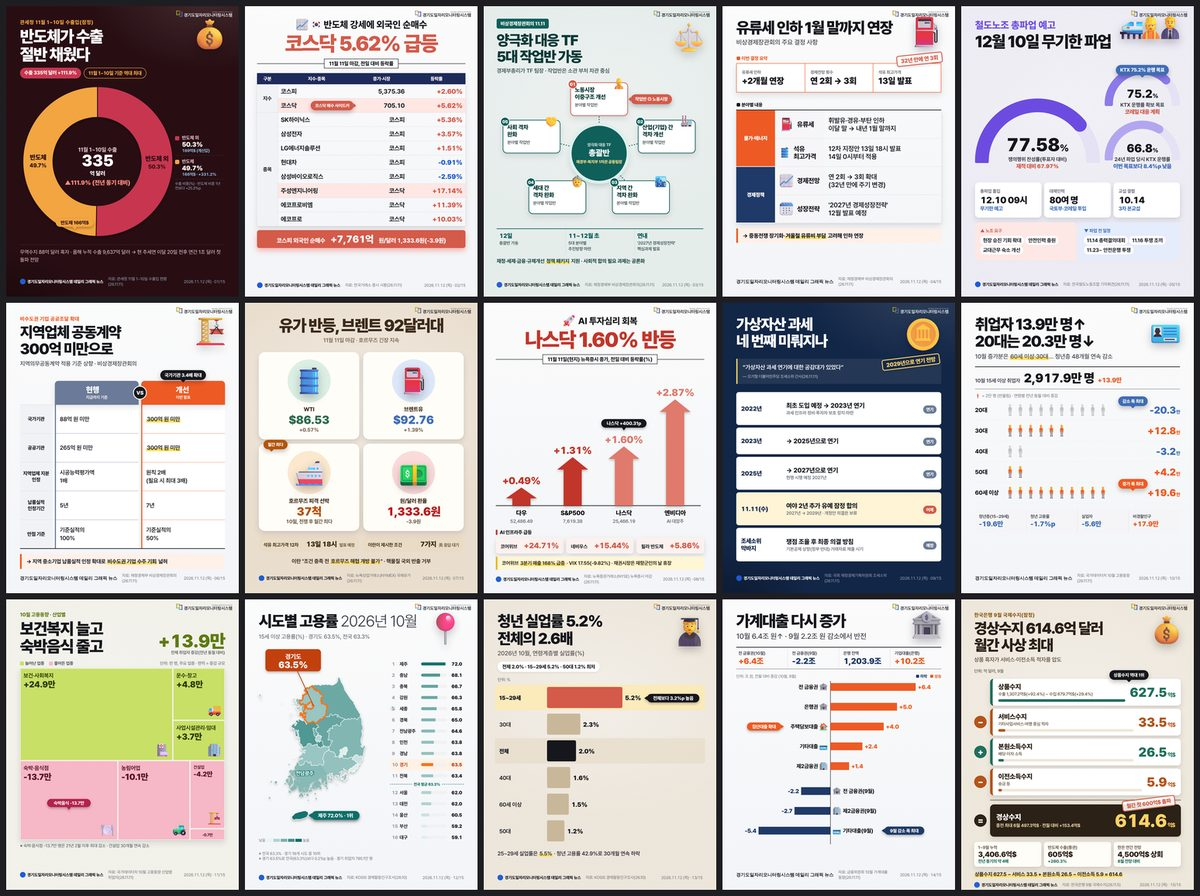
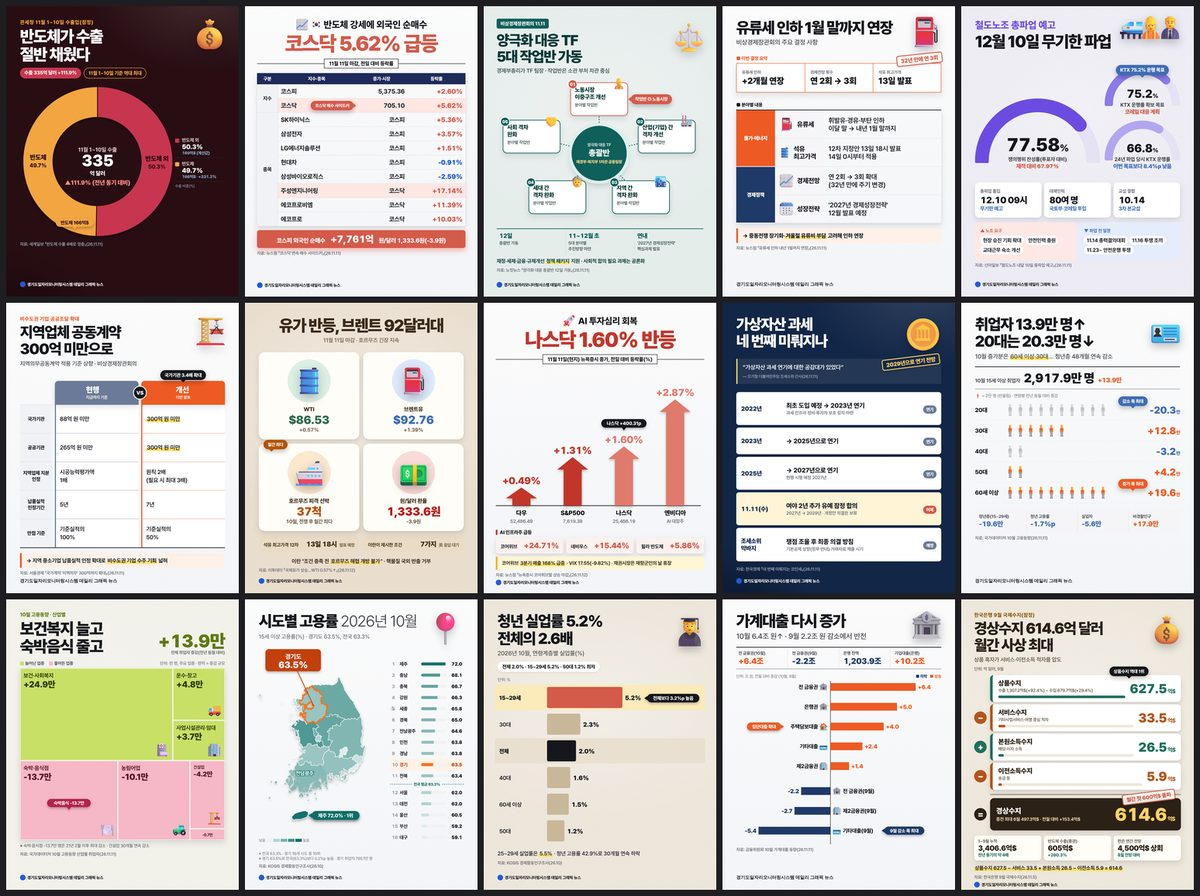
261112 웹페이지 수정(뉴스 출처 표기·미리보기 갱신)
Claude-Session: https://claude.ai/code/session_015uJhCQ7cEk3TV84yFqUjX6

diff --git a/daily/2026-11-12/index.html b/daily/2026-11-12/index.html
@@ -2,15 +2,15 @@
 <meta property="og:title" content="11.12.(목) 데일리 그래픽뉴스 | 경기도일자리모니터링시스템"><meta property="og:description" content="오늘의 일자리·경제 뉴스·통계 15건, 제목과 출처를 확인하세요"><meta property="og:image" content="https://gjfdata.github.io/daily/2026-11-12/preview.jpg"><meta property="og:url" content="https://gjfdata.github.io/daily/2026-11-12/"><meta property="og:type" content="website"><meta name="description" content="오늘의 일자리·경제 뉴스·통계 15건, 제목과 출처를 확인하세요">
 <link rel="stylesheet" href="https://cdn.jsdelivr.net/gh/orioncactus/pretendard@v1.3.9/dist/web/static/pretendard.css"><link rel="stylesheet" href="../../assets/style.css"></head><body><div class="w"><img class="ci" src="../../assets/ci.png" alt="경기도일자리모니터링시스템"><h1>11.12.(목) 데일리 그래픽뉴스</h1><p class="sub">오늘의 일자리·경제 뉴스·통계 15건</p>
 <img class="pv" src="preview.jpg" alt="11.12 데일리 그래픽뉴스 미리보기"><ol>
-<li><span class="n">01</span><div><b>반도체가 수출 절반 채웠다(11월 1~10일 수출 335억 달러)</b><span class="s"><a href="https://www.segye.com/newsView/20261111504526" target="_blank" rel="noopener">관세청 11월 1~10일 수출입 현황(26.11.11)</a></span></div></li>
-<li><span class="n">02</span><div><b>코스닥 5.62% 급등, 매수 사이드카</b><span class="s"><a href="https://www.newspim.com/news/view/20261111001287" target="_blank" rel="noopener">한국거래소 증시 시황(26.11.11)</a></span></div></li>
-<li><span class="n">03</span><div><b>양극화 대응 TF 5대 작업반 가동</b><span class="s"><a href="https://www.nocutnews.co.kr/news/6604917" target="_blank" rel="noopener">재정경제부 비상경제장관회의(26.11.11)</a></span></div></li>
-<li><span class="n">04</span><div><b>유류세 인하 1월 말까지 연장</b><span class="s"><a href="https://m.sedaily.com/article/20112801" target="_blank" rel="noopener">재정경제부 비상경제장관회의(26.11.11)</a></span></div></li>
-<li><span class="n">05</span><div><b>철도노조 12월 10일 무기한 총파업 예고</b><span class="s"><a href="https://www.shinailbo.co.kr/news/articleView.html?idxno=5082412" target="_blank" rel="noopener">전국철도노동조합 기자회견(26.11.11)</a></span></div></li>
-<li><span class="n">06</span><div><b>지역업체 공동계약 300억 원 미만으로 확대</b><span class="s"><a href="https://www.newspim.com/news/view/20261111000296" target="_blank" rel="noopener">재정경제부 비상경제장관회의(26.11.11)</a></span></div></li>
-<li><span class="n">07</span><div><b>유가 반등, 브렌트 92달러대</b><span class="s"><a href="https://www.etoday.co.kr/news/view/2647077" target="_blank" rel="noopener">뉴욕상업거래소(NYMEX) 국제유가(26.11.11)</a></span></div></li>
-<li><span class="n">08</span><div><b>뉴욕증시 반등, 나스닥 1.60%↑</b><span class="s"><a href="https://www.newspim.com/news/view/20261112000017" target="_blank" rel="noopener">뉴욕증권거래소(NYSE) 뉴욕증시 마감(26.11.11)</a></span></div></li>
-<li><span class="n">09</span><div><b>가상자산 과세 네 번째 미뤄지나</b><span class="s"><a href="https://www.hankyung.com/article/2026111112377" target="_blank" rel="noopener">국회 재정경제기획위원회 조세소위(26.11.11)</a></span></div></li>
+<li><span class="n">01</span><div><b>반도체가 수출 절반 채웠다(11월 1~10일 수출 335억 달러)</b><span class="s"><a href="https://www.segye.com/newsView/20261111504526" target="_blank" rel="noopener">세계일보 「반도체 수출 4배로 껑충」(26.11.11)</a></span></div></li>
+<li><span class="n">02</span><div><b>코스닥 5.62% 급등, 매수 사이드카</b><span class="s"><a href="https://www.newspim.com/news/view/20261111001287" target="_blank" rel="noopener">뉴스핌 「코스닥 연속 매수 사이드카」(26.11.11)</a></span></div></li>
+<li><span class="n">03</span><div><b>양극화 대응 TF 5대 작업반 가동</b><span class="s"><a href="https://www.nocutnews.co.kr/news/6604917" target="_blank" rel="noopener">노컷뉴스 「양극화 대응 총괄반 12일 가동」(26.11.11)</a></span></div></li>
+<li><span class="n">04</span><div><b>유류세 인하 1월 말까지 연장</b><span class="s"><a href="https://www.newspim.com/news/view/20261111000296" target="_blank" rel="noopener">뉴스핌 「유류세 인하 내년 1월까지 연장」(26.11.11)</a></span></div></li>
+<li><span class="n">05</span><div><b>철도노조 12월 10일 무기한 총파업 예고</b><span class="s"><a href="https://www.shinailbo.co.kr/news/articleView.html?idxno=5082412" target="_blank" rel="noopener">신아일보 「철도노조 내달 10일 총파업 예고」(26.11.11)</a></span></div></li>
+<li><span class="n">06</span><div><b>지역업체 공동계약 300억 원 미만으로 확대</b><span class="s"><a href="https://m.sedaily.com/article/20112774" target="_blank" rel="noopener">서울경제 「국가계약 &#x27;지역의무&#x27; 300억까지 확대」(26.11.11)</a></span></div></li>
+<li><span class="n">07</span><div><b>유가 반등, 브렌트 92달러대</b><span class="s"><a href="https://www.etoday.co.kr/news/view/2647077" target="_blank" rel="noopener">이투데이 「국제유가 상승…WTI 0.57%↑」(26.11.12)</a></span></div></li>
+<li><span class="n">08</span><div><b>뉴욕증시 반등, 나스닥 1.60%↑</b><span class="s"><a href="https://www.newspim.com/news/view/20261112000017" target="_blank" rel="noopener">뉴스핌 「뉴욕증시 코어위브발 상승 마감」(26.11.12)</a></span></div></li>
+<li><span class="n">09</span><div><b>가상자산 과세 네 번째 미뤄지나</b><span class="s"><a href="https://www.hankyung.com/article/2026111112377" target="_blank" rel="noopener">한국경제 「네 번째 미뤄지는 코인세」(26.11.11)</a></span></div></li>
 <li><span class="n">10</span><div><b>10월 취업자 13.9만 명↑, 20대는 20.3만 명↓</b><span class="s"><a href="https://view.asiae.co.kr/article/2026111108394180856" target="_blank" rel="noopener">국가데이터처 10월 고용동향(26.11.11)</a></span></div></li>
 <li><span class="n">11</span><div><b>산업별 취업자, 보건복지 늘고 숙박음식 줄고</b><span class="s"><a href="https://www.fnnews.com/news/202611110823120610" target="_blank" rel="noopener">국가데이터처 10월 고용동향 산업별 취업자(26.11.11)</a></span></div></li>
 <li><span class="n">12</span><div><b>시도별 고용률 경기 63.5%</b><span class="s"><a href="https://kosis.kr/statHtml/statHtml.do?orgId=101&amp;tblId=DT_1DA7004S" target="_blank" rel="noopener">KOSIS 경제활동인구조사(26.10)</a></span></div></li>
